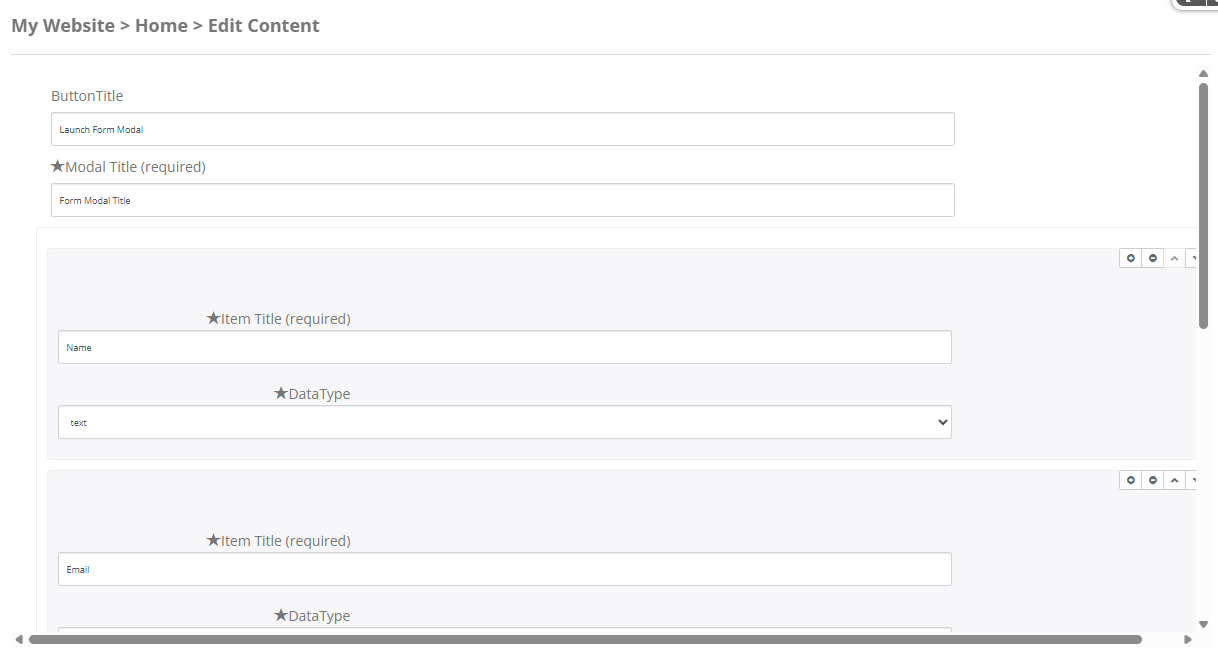
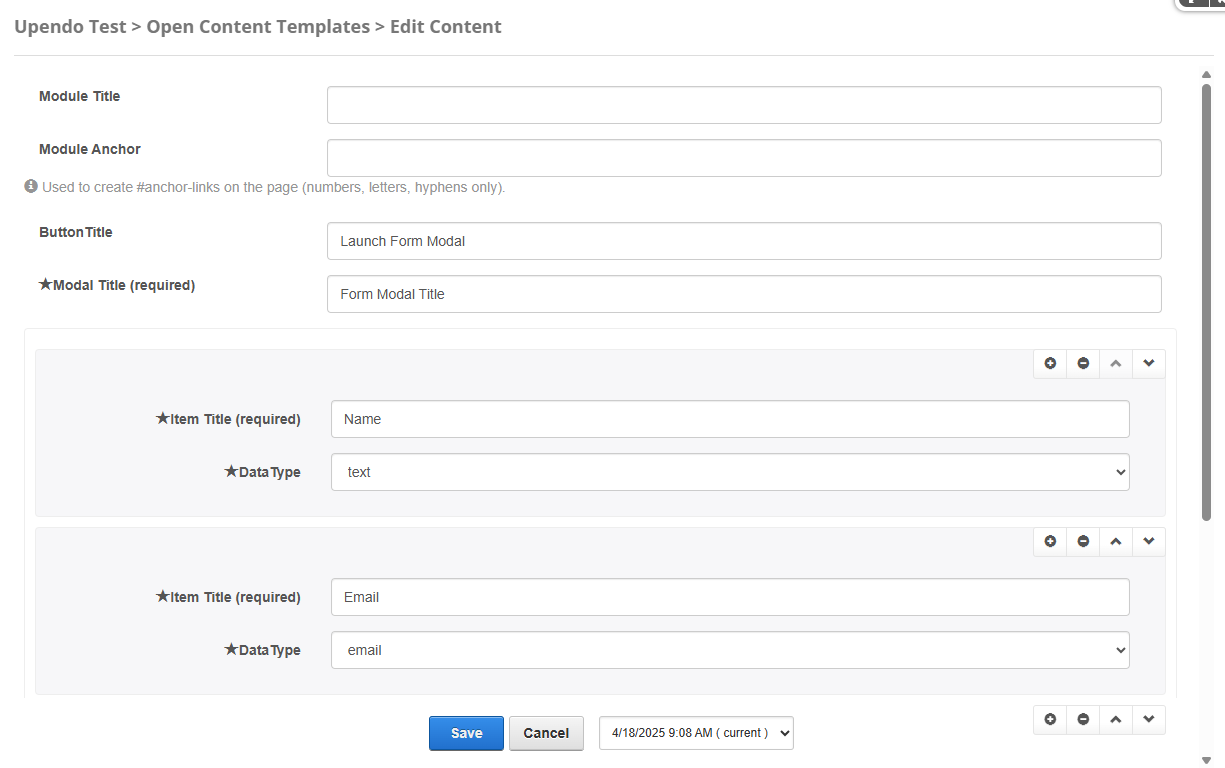
Update Porto-Modals-Forms doc

diff --git a/Porto-Modals-Forms/Porto-Modals-Forms.html b/Porto-Modals-Forms/Porto-Modals-Forms.html
@@ -162,9 +162,9 @@
             integrates seamlessly with <strong>OpenContent</strong>.</p>
 
         <p>For more details, check out the <a
-            href="https://github.com/UpendoVentures/OpenContentTemplates-Razor/tree/master/Porto-Modals-Forms">
+            href="https://github.com/UpendoVentures/OpenContentTemplates-Razor/tree/master/Porto-Modals-Forms" target="_blank">
             <strong>Porto-Modals-Forms repository on GitHub</strong></a> or the <a
-            href="https://porto.mandeeps.com/shortcodes/shortcodes-2/modals">
+            href="https://porto.mandeeps.com/shortcodes/shortcodes-1/modals" target="_blank">
             <strong>Porto documentation</strong></a>.
         </p>
 
@@ -186,12 +186,25 @@
             </thead>
             <tbody>
                 <tr>
-                    <td>ButtonTitle</td>
+                    <td>Module Title</td>
+                    <td>String</td>
+                    <td>Used to define the title of the module. This title is displayed in the DNN administration interface to
+                        help identify the module.</td>
+                </tr>
+                <tr>
+                    <td>Module Anchor</td>
+                    <td>String</td>
+                    <td>Used to create anchor links on the page. This allows users to link directly to the module using a unique
+                        identifier.
+                        Only letters, numbers, and hyphens are allowed.</td>
+                </tr>
+                <tr>
+                    <td>Button Title</td>
                     <td>String</td>
                     <td>The text displayed on the button that triggers the modal.</td>
                 </tr>
                 <tr>
-                    <td>ModalTitle</td>
+                    <td>Modal Title</td>
                     <td>String</td>
                     <td>The title displayed at the top of the modal. This field is required.</td>
                 </tr>
@@ -220,7 +233,7 @@
             </thead>
             <tbody>
                 <tr>
-                    <td>ButtonColor</td>
+                    <td>Button Color</td>
                     <td>String</td>
                     <td>Defines the color of the button. Options include <code>btn-primary</code>,
                         <code>btn-secondary</code>, <code>btn-success</code>, <code>btn-warning</code>, and more.</td>
